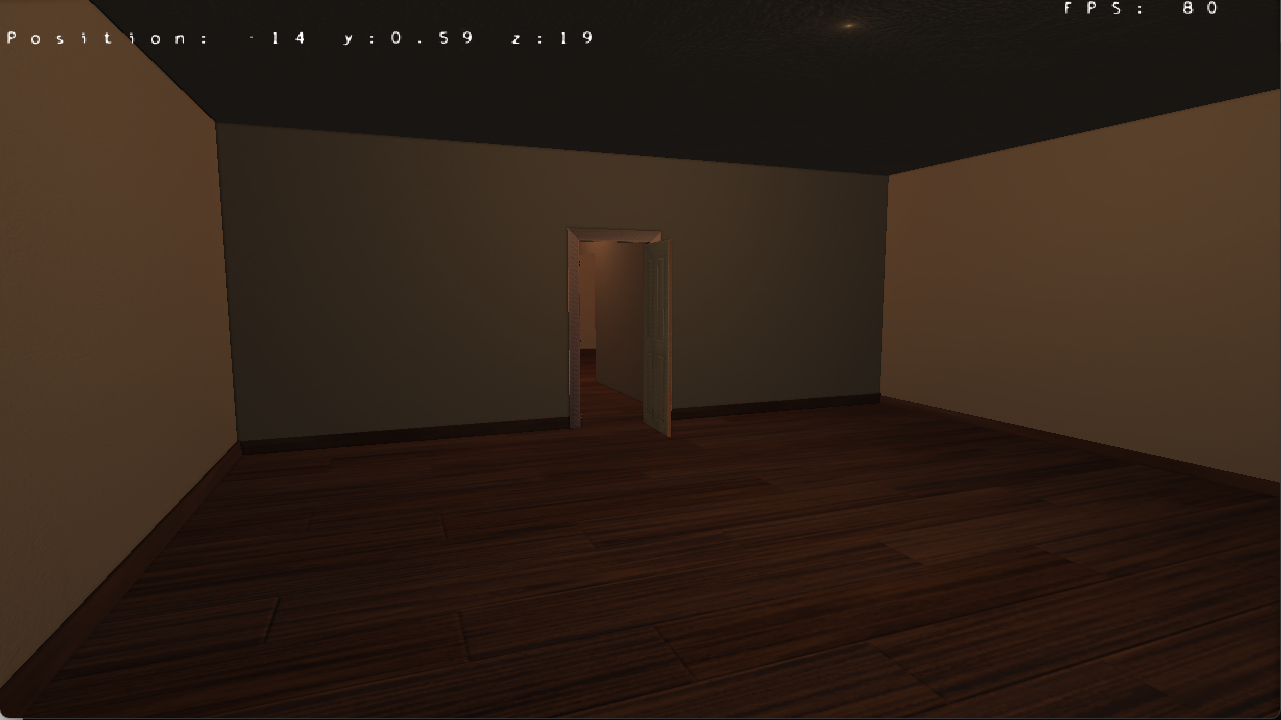
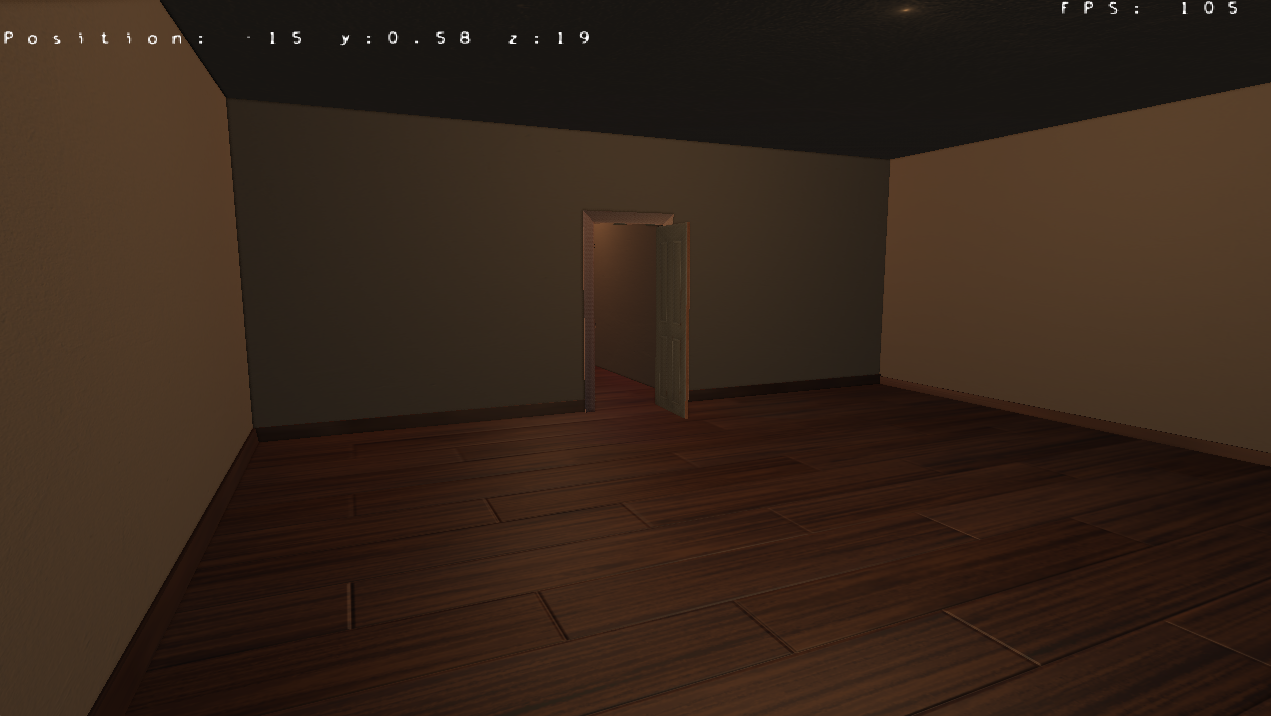
Better Screenshot

diff --git a/Engine/Core/Scene/Scene.cpp b/Engine/Core/Scene/Scene.cpp
@@ -17,7 +17,7 @@ void Scene::Load() {
 	AssetManager::AddTexture("lamp", "Assets/Textures/lamp.png", "Assets/Normals/lamp_normal.png");
 
 	AssetManager::AddTexture("beige_wall", "Assets/Textures/beige_wall.jpg", "Assets/Normals/beige_wall_normal.jpg");
-	AssetManager::AddTexture("wooden_floor", "Assets/Textures/wooden_floor.jpg", "Assets/Normals/wooden_floor_normal.jpg","Assets/Specular/Default_Specular.jpg");
+	AssetManager::AddTexture("wooden_floor", "Assets/Textures/wooden_floor.jpg", "Assets/Normals/wooden_floor_normal.jpg","Assets/Specular/floor_Specular.jpg");
 
 
 
